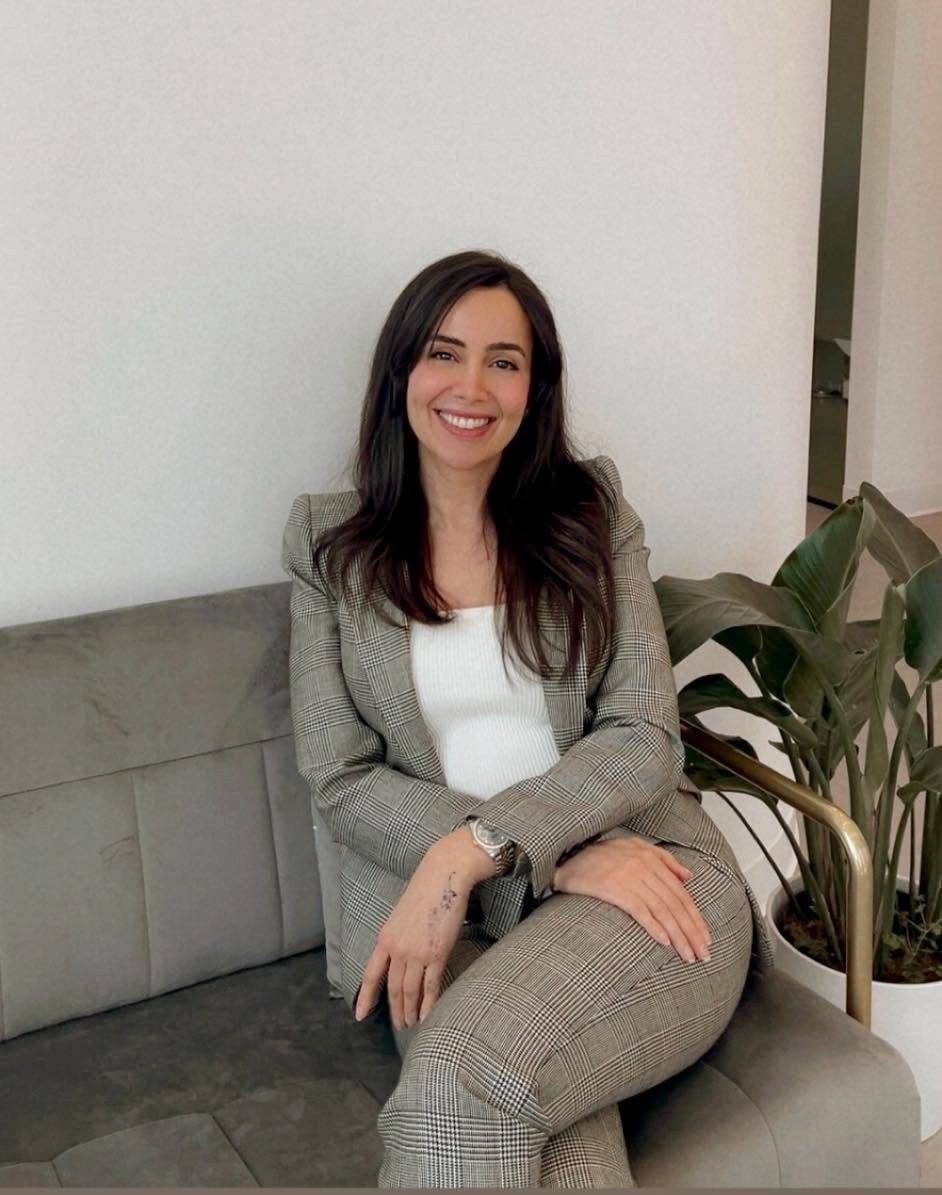
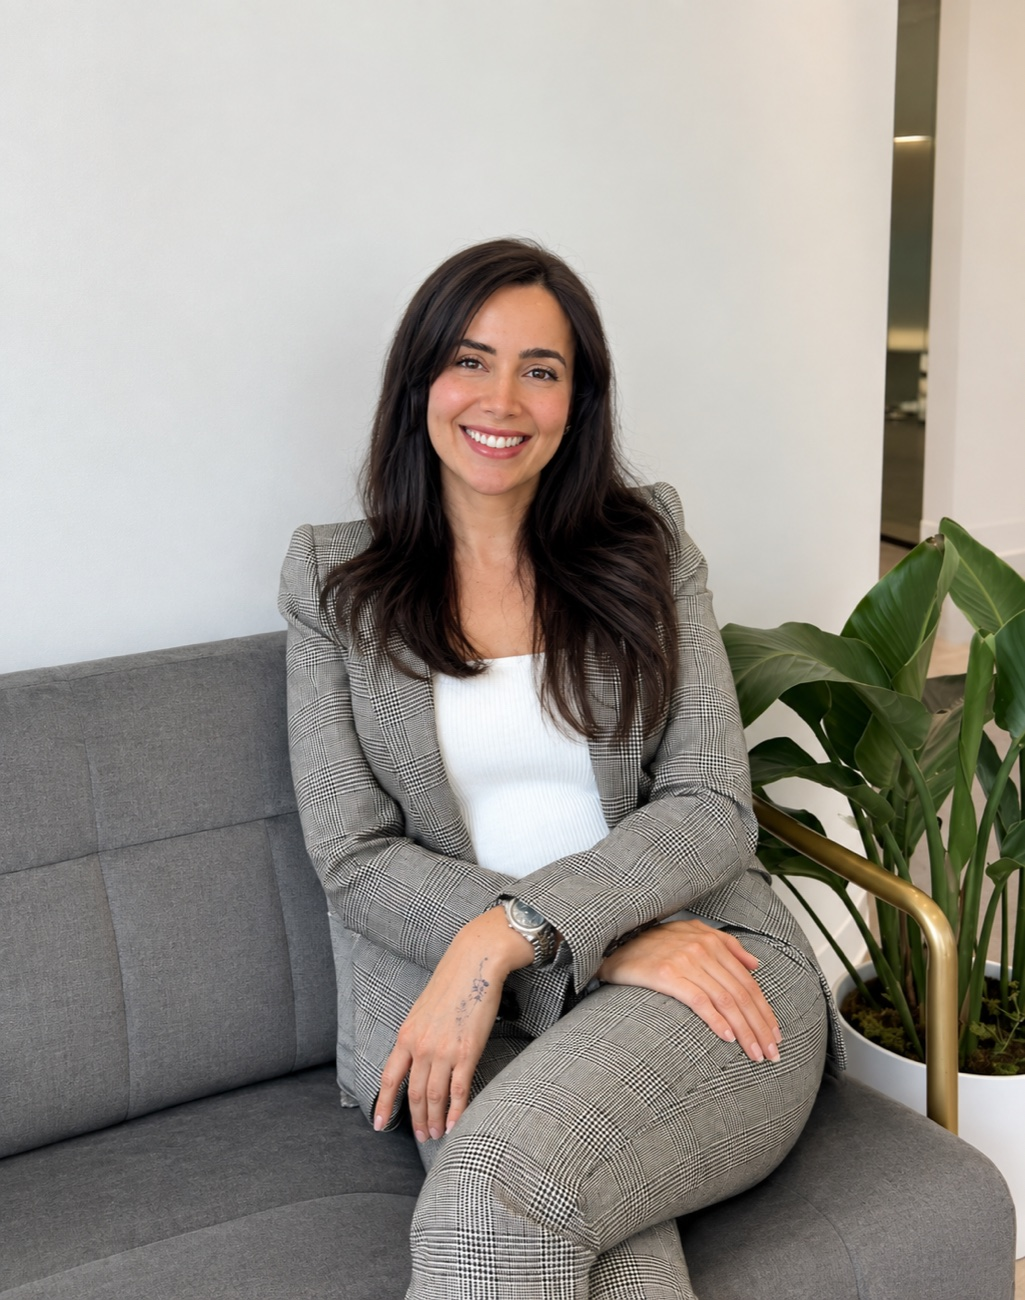
New Dr. Ajineh headshot; add Google reviews section + Maps embed at page bottom
- Replace dr-ajineh.jpg with the new portrait.
- Add a Google Reviews section (4.9 rating, 100+ reviews) with links to read/leave a
  review, and a widget mount point for a live auto-updating reviews embed.
- Embed the practice location via Google Maps as the final section before the footer.

Claude-Session: https://claude.ai/code/session_012Ko1PZDroG26c2r2R5jCJh

diff --git a/index.html b/index.html
@@ -397,6 +397,30 @@
     </div>
   </div>
 </section>
+
+<section class="reviews" aria-labelledby="rev-title">
+  <div class="reviews__inner">
+    <p class="eyebrow reveal">Reviews</p>
+    <h2 class="section-title reveal" id="rev-title">Loved by our Tysons Corner patients.</h2>
+    <div class="reviews__badge reveal">
+      <span class="reviews__score">4.9</span>
+      <span class="reviews__stars" aria-hidden="true">★★★★★</span>
+      <span class="reviews__count">Based on 100+ Google reviews</span>
+    </div>
+    <div class="reviews__actions reveal">
+      <a class="btn btn--solid" href="https://www.google.com/maps/search/?api=1&amp;query=Westpark+Dental+Studio+7917+Westpark+Drive+McLean+VA+22102" target="_blank" rel="noopener">Read Our Google Reviews</a>
+      <a class="btn btn--outline" href="https://www.google.com/maps/search/?api=1&amp;query=Westpark+Dental+Studio+7917+Westpark+Drive+McLean+VA+22102" target="_blank" rel="noopener">Leave a Review</a>
+    </div>
+    <!-- LIVE REVIEWS: paste your Google reviews widget embed (e.g. Elfsight / Trustindex / EmbedSocial) inside this div to show scrolling, auto-updating reviews. -->
+    <div id="google-reviews-widget"></div>
+  </div>
+</section>
+
+<section class="map-embed-section" aria-label="Westpark Dental Studio location on Google Maps">
+  <iframe class="gmap" title="Westpark Dental Studio location on Google Maps"
+    src="https://www.google.com/maps?q=7917%20Westpark%20Drive%2C%20Unit%20R1%2C%20McLean%2C%20VA%2022102&output=embed"
+    loading="lazy" referrerpolicy="no-referrer-when-downgrade" allowfullscreen></iframe>
+</section>
 </main>
 
 <!-- ================= FOOTER ================= -->

diff --git a/services.css b/services.css
@@ -28,6 +28,23 @@
   body { padding-bottom: 4.75rem; }
 }
 
+/* ---------- Google reviews section ---------- */
+.reviews { background: var(--soft); padding: clamp(4rem, 9vh, 7rem) 0; }
+.reviews__inner { max-width: 860px; margin: 0 auto; padding: 0 var(--gutter); text-align: center; }
+.reviews .section-title { margin: 0.75rem 0 1.9rem; }
+.reviews__badge { display: inline-flex; flex-direction: column; align-items: center; gap: 0.4rem; margin-bottom: 2rem; }
+.reviews__score { font-family: var(--serif); font-size: clamp(2.8rem, 8vw, 3.6rem); line-height: 1; color: var(--charcoal); }
+.reviews__stars { color: var(--gold); letter-spacing: 4px; font-size: 1.4rem; }
+.reviews__count { font-size: 0.76rem; letter-spacing: 0.18em; text-transform: uppercase; color: var(--taupe); }
+.reviews__actions { display: flex; gap: 1rem; justify-content: center; flex-wrap: wrap; }
+#google-reviews-widget { margin-top: 2.75rem; }
+#google-reviews-widget:empty { display: none; }
+
+/* ---------- Full-width map embed (page bottom) ---------- */
+.map-embed-section { line-height: 0; }
+.map-embed-section .gmap { width: 100%; height: 460px; border: 0; display: block; }
+@media (max-width: 780px) { .map-embed-section .gmap { height: 340px; } }
+
 /* ---------- Insurance plan list (billing page) ---------- */
 .plan-list {
   max-width: var(--wrap); margin: 0 auto; padding: 0 var(--gutter);
